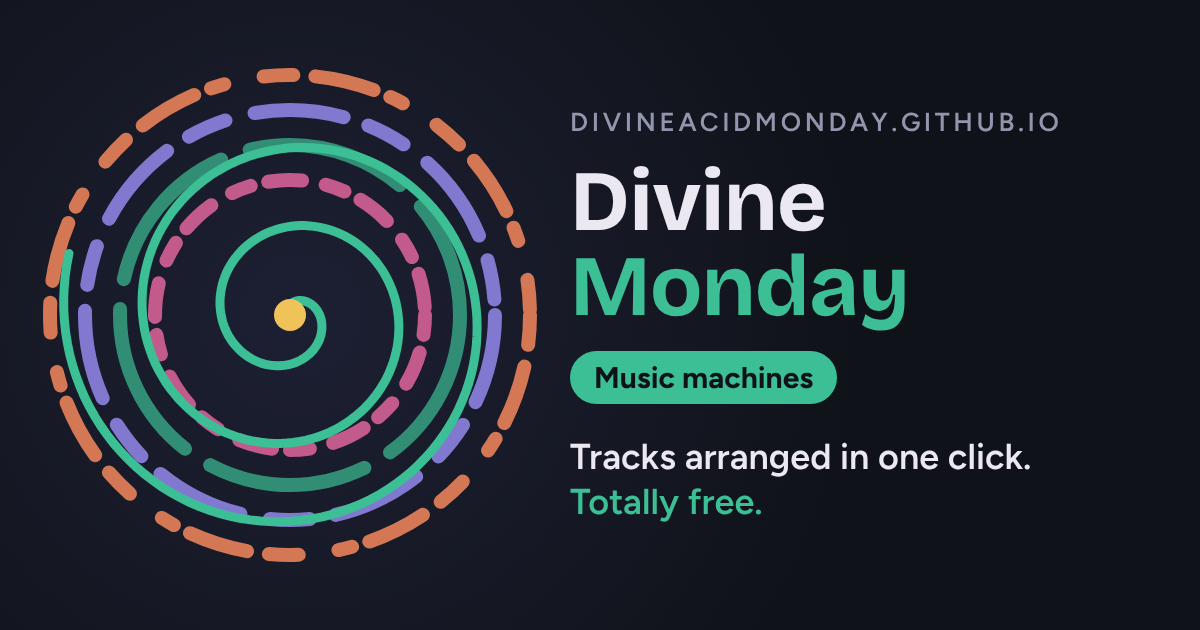
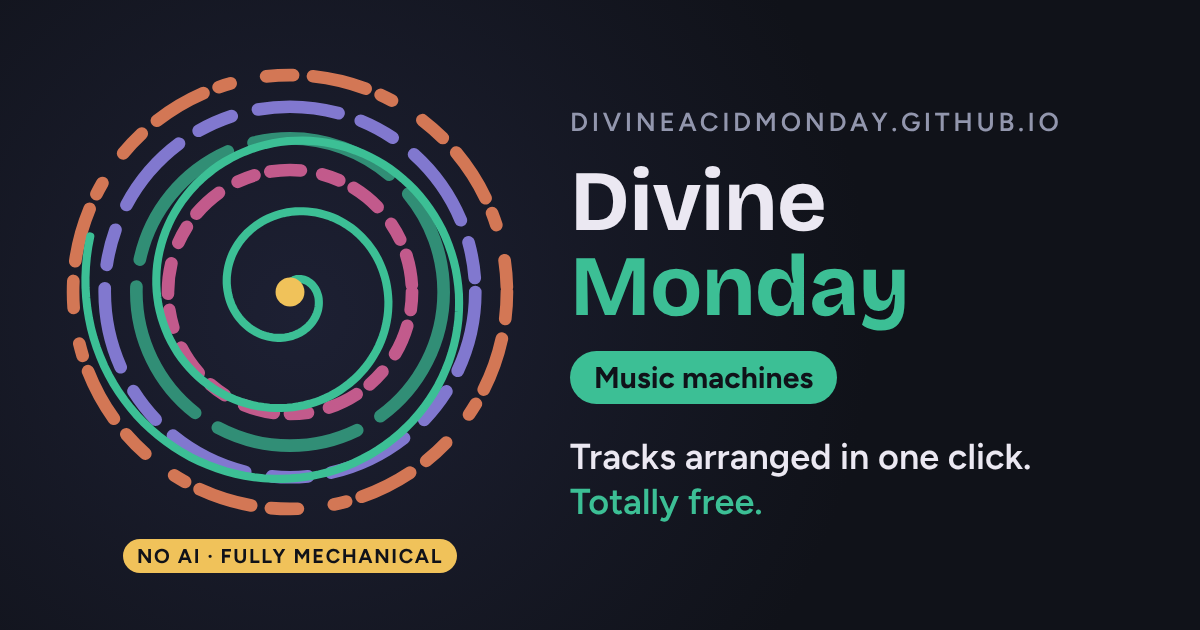
No AI inside, fully mechanical: said clearly in every app, on the front door and the share images. Feedback becomes Feedback / contact
Claude-Session: https://claude.ai/code/session_01AZoQ4ycVfCLhHSpjZYvUNb

Changed region(s): [[0.0308, 0.1206, 0.4625, 0.9349], [0.2775, 0.1206, 0.3392, 0.181], [0.2158, 0.573, 0.2467, 0.6032]]

diff --git a/lite/index.html b/lite/index.html
@@ -92,6 +92,8 @@ body.lite #app{display:none}
 #liteSheet .singrow{display:flex;flex-wrap:wrap;gap:6px}
 #liteSheet .singrow button{flex:0 0 auto;padding:6px 10px;font-size:13px}
 
+#lite .noai{margin:4px 0 14px;font-size:14px;color:var(--muted)}#lite .noai b{display:inline-block;color:#101219;background:#f0c25a;border-radius:999px;padding:2px 10px;margin-right:6px;font-size:13px}
+
 </style>
 <style>
 /* Layout: one instrument panel. Top bar = song settings, left = song spiral, centre = the editor, right = the part slots (one opens at a time), top bar also holds delivery. Dark first, like gear in a dim studio. */
@@ -251,6 +253,7 @@ input[type=number]{width:64px;font-variant-numeric:tabular-nums}
 .mlink:hover{border-color:var(--accent)}
 .manuals.small .mlink{padding:3px 8px}
 .copy{margin-top:8px;color:var(--faint);font-size:11px}
+.noai{margin:10px 0 6px;font-size:13px;color:var(--muted)}.noai b{display:inline-block;color:#101219;background:#f0c25a;border-radius:999px;padding:2px 10px;margin-right:6px;font-size:12px}
 a.legal{color:var(--muted);text-decoration:underline;white-space:nowrap}
 .small{font-size:12px;color:var(--muted)}
 
@@ -3058,7 +3061,7 @@ setTimeout(() => count(), 0);
 const FB_APP = APP_NAME;
 /* ---------- feedback: opens a mail to Divine Monday with the app and version filled in ---------- */
 function feedbackHref() {
-  const s = 'Feedback: ' + FB_APP + ' (version 2026-10-21 03:48)';
+  const s = 'Feedback / contact: ' + FB_APP + ' (version 2026-10-21 04:21)';
   const b = 'Hi Divine Monday,\n\nWhat I made:\n\nWhat I liked:\n\nWhat could be better:\n\nMy device and browser: ' + navigator.userAgent.replace(/\s+/g, ' ').slice(0, 160) + '\n';
   return 'mailto:divinemonday@gmail.com?subject=' + encodeURIComponent(s) + '&body=' + encodeURIComponent(b);
 }
@@ -3396,7 +3399,7 @@ function renderTop() {
         h('button', { class: st.polished ? 'on' : '', title: 'Theory checked and mix ready', onclick: () => { st.polished = true; renderTop(); } }, 'Polished')),
       h('button', { id: 'shareBtn', title: 'Send your song as a link: whoever opens it can listen and download the MP3 and MIDI', onclick: shareSong }, ico('share'), 'Share'),
       h('button', { class: 'primary', id: 'deliverBtn', onclick: openDeliver }, ico('download'), 'Deliver'),
-      h('div', { class: 'grp' }, h('button', { id: 'explainBtn', class: st.explain ? 'on' : '', 'aria-pressed': !!st.explain, title: 'Explain mode: tap any button to learn what it does, nothing changes', onclick: toggleExplain }, '💬 Explain'), h('button', { class: 'iconbtn', 'aria-label': 'Help', title: 'How it works', onclick: openHelp }, ico('help')), h('button', { class: 'iconbtn', id: 'feedbackBtn', 'aria-label': 'Send feedback', title: 'Send feedback: opens a mail to Divine Monday', onclick: sendFeedback }, '📮'), h('button', { class: 'ghost', title: 'Back to the start screen', onclick: openStart }, 'New')))
+      h('div', { class: 'grp' }, h('button', { id: 'explainBtn', class: st.explain ? 'on' : '', 'aria-pressed': !!st.explain, title: 'Explain mode: tap any button to learn what it does, nothing changes', onclick: toggleExplain }, '💬 Explain'), h('button', { class: 'iconbtn', 'aria-label': 'Help', title: 'How it works', onclick: openHelp }, ico('help')), h('button', { class: 'iconbtn', id: 'feedbackBtn', 'aria-label': 'Feedback or contact', title: 'Feedback or contact: opens a mail to Divine Monday', onclick: sendFeedback }, '📮'), h('button', { class: 'ghost', title: 'Back to the start screen', onclick: openStart }, 'New')))
   );
 }
 function setMeter(m) {
@@ -4935,6 +4938,7 @@ function openStart() {
     h('div', { class: 'stepnum' }, 'Step 1 of 2'), h('h3', null, st.boot ? 'Pick a genre' : 'Or a new song from scratch: pick a genre'),
     genres,
     h('div', { class: 'small' }, 'Not sure? Free flow follows wherever you go, and the machine tells you later what it sounds like.'),
+    h('div', { class: 'noai' }, h('b', null, '⚙ No AI inside'), ' Every note comes from music rules, patterns and dice. Fully mechanical.'),
     manualLinks(true),
     h('div', { class: 'small faint copy' }, D.COPYRIGHT + '. All rights reserved.'),
     last && last.parts && st.boot ? h('button', { id: 'continueBtn', onclick: () => { loadSong(last); closeOverlay(); } }, 'Continue where you left off: ' + (last.name || 'Untitled')) : null
@@ -5039,7 +5043,7 @@ function openHelp() {
       row('Space', 'Play or pause.'), row('← →', 'Previous or next section.'), row('Ctrl Z', 'Undo.')),
     h('div', { class: 'small' }, 'Your library and last song are kept in this browser. Save the library as a file now and then; browsers can wipe their storage.'),
     manualLinks(),
-    h('div', { class: 'small faint copy' }, APP_NAME + ', version 2026-10-21 03:48. ' + D.COPYRIGHT + '. All rights reserved.', ' ', h('a', { href: '#', class: 'legal', onclick: (e) => { e.preventDefault(); sendFeedback(); } }, '📮 Send feedback'), ' ', h('a', { href: 'https://divineacidmonday.github.io/divine-music-machine-v7/legal/', target: '_blank', rel: 'noopener', class: 'legal' }, 'Impressum · Privacy'))));
+    h('div', { class: 'small faint copy' }, APP_NAME + ', version 2026-10-21 04:21. ' + D.COPYRIGHT + '. All rights reserved.', ' ', h('a', { href: '#', class: 'legal', onclick: (e) => { e.preventDefault(); sendFeedback(); } }, '📮 Feedback / contact'), ' ', h('a', { href: 'https://divineacidmonday.github.io/divine-music-machine-v7/legal/', target: '_blank', rel: 'noopener', class: 'legal' }, 'Impressum · Privacy'))));
 }
 
 // save to library
@@ -5611,6 +5615,7 @@ function openStart() {
   const box = h('div', { id: 'liteStart' }, h('div', { class: 'col' },
     h('h1', null, 'Divine Music Machine ', h('b', null, 'Lite'), UJ ? h('span', { class: 'ujam' }, 'UJAM') : null),
     h('p', null, 'Pick a style. The machine makes a whole song right away. Then you steer.'),
+    h('div', { class: 'noai' }, h('b', null, '⚙ No AI inside'), ' Every note comes from music rules, patterns and dice. Fully mechanical.'),
     h('div', { class: 'gcards' }, D.GENRE_ALL.map((g) => h('button', { class: 'gc', id: 'lg_' + g, style: '--gc:var(' + GENRE_COLOR[g] + ')', onclick: () => makeSong(g) }, h('b', null, D.GENRES[g].name), h('span', null, GENRE_LINE[g] || '')))),
     last && last.parts && song() && st.liteReady ? h('button', { class: 'ghost', onclick: () => box.remove() }, 'Back to my song') : null,
     last && last.parts && !st.liteReady ? h('button', { class: 'ghost', id: 'liteContinue', onclick: () => { A.loadSong(last); st.liteReady = true; box.remove(); renderLite(); } }, 'Continue where you left off') : null,
@@ -5896,8 +5901,8 @@ function openHelp(lang) {
   document.body.append(h('div', { id: 'liteSheet', onclick: (e) => { if (e.target.id === 'liteSheet') closeSheet(); } }, h('div', { class: 'sh', role: 'dialog', 'aria-label': 'How it works' },
     h('div', { class: 'row', style: 'align-items:center' }, h('h2', { style: 'flex:2' }, '? How it works'), ['EN', 'NL', 'DE'].map((k) => h('button', { class: k === lang ? 'on' : 'ghost', id: 'liteLang' + k, style: 'flex:0 0 auto', onclick: () => openHelp(k) }, k))),
     h('ol', { class: 'helplist' }, HELP[lang].map((t) => h('li', null, t))),
-    h('div', { class: 'small' }, D.COPYRIGHT + '. Lite · version 2026-10-21 03:48 ', h('a', { href: 'https://divineacidmonday.github.io/divine-music-machine-v7/legal/', target: '_blank', rel: 'noopener', class: 'legal' }, 'Impressum · Privacy')),
-    h('button', { class: 'ghost', onclick: () => A.sendFeedback() }, '📮 Send feedback'),
+    h('div', { class: 'small' }, D.COPYRIGHT + '. Lite · version 2026-10-21 04:21 ', h('a', { href: 'https://divineacidmonday.github.io/divine-music-machine-v7/legal/', target: '_blank', rel: 'noopener', class: 'legal' }, 'Impressum · Privacy')),
+    h('button', { class: 'ghost', onclick: () => A.sendFeedback() }, '📮 Feedback / contact'),
     h('button', { class: 'ghost', onclick: closeSheet }, 'Close'))));
 }
 
@@ -5930,8 +5935,8 @@ function renderLite() {
       h('button', { id: 'litePro', title: 'Open this song in Divine Music Machine Pro, with every button', onclick: openPro }, '⚙ Pro'),
       h('button', { id: 'liteExplain', class: st.explain ? 'on' : '', onclick: toggleExplain }, '💬 Explain'),
       h('button', { id: 'liteHelp', title: 'The short manual, in English, Dutch and German', onclick: () => openHelp() }, '? Help'),
-      h('button', { id: 'liteFeedback', title: 'Send feedback: opens a mail to Divine Monday', onclick: () => A.sendFeedback() }, '📮 Feedback')),
-    h('div', { class: 'foot' }, h('span', null, D.COPYRIGHT), h('a', { href: 'https://divineacidmonday.github.io/divine-music-machine-v7/legal/', target: '_blank', rel: 'noopener', class: 'legal' }, 'Impressum · Privacy'), h('span', null, 'Lite · version 2026-10-21 03:48')));
+      h('button', { id: 'liteFeedback', title: 'Feedback or contact: opens a mail to Divine Monday', onclick: () => A.sendFeedback() }, '📮 Contact')),
+    h('div', { class: 'foot' }, h('span', null, D.COPYRIGHT), h('a', { href: 'https://divineacidmonday.github.io/divine-music-machine-v7/legal/', target: '_blank', rel: 'noopener', class: 'legal' }, 'Impressum · Privacy'), h('span', null, 'Lite · version 2026-10-21 04:21')));
   L.root.replaceChildren(col);
   L.cur = undefined; renderSpiral(); renderHead();
 }

diff --git a/lite/ujam/index.html b/lite/ujam/index.html
@@ -92,6 +92,8 @@ body.lite #app{display:none}
 #liteSheet .singrow{display:flex;flex-wrap:wrap;gap:6px}
 #liteSheet .singrow button{flex:0 0 auto;padding:6px 10px;font-size:13px}
 
+#lite .noai{margin:4px 0 14px;font-size:14px;color:var(--muted)}#lite .noai b{display:inline-block;color:#101219;background:#f0c25a;border-radius:999px;padding:2px 10px;margin-right:6px;font-size:13px}
+
 </style>
 <style>
 /* Layout: one instrument panel. Top bar = song settings, left = song spiral, centre = the editor, right = the part slots (one opens at a time), top bar also holds delivery. Dark first, like gear in a dim studio. */
@@ -251,6 +253,7 @@ input[type=number]{width:64px;font-variant-numeric:tabular-nums}
 .mlink:hover{border-color:var(--accent)}
 .manuals.small .mlink{padding:3px 8px}
 .copy{margin-top:8px;color:var(--faint);font-size:11px}
+.noai{margin:10px 0 6px;font-size:13px;color:var(--muted)}.noai b{display:inline-block;color:#101219;background:#f0c25a;border-radius:999px;padding:2px 10px;margin-right:6px;font-size:12px}
 a.legal{color:var(--muted);text-decoration:underline;white-space:nowrap}
 .small{font-size:12px;color:var(--muted)}
 
@@ -3058,7 +3061,7 @@ setTimeout(() => count(), 0);
 const FB_APP = APP_NAME;
 /* ---------- feedback: opens a mail to Divine Monday with the app and version filled in ---------- */
 function feedbackHref() {
-  const s = 'Feedback: ' + FB_APP + ' (version 2026-10-21 03:48)';
+  const s = 'Feedback / contact: ' + FB_APP + ' (version 2026-10-21 04:21)';
   const b = 'Hi Divine Monday,\n\nWhat I made:\n\nWhat I liked:\n\nWhat could be better:\n\nMy device and browser: ' + navigator.userAgent.replace(/\s+/g, ' ').slice(0, 160) + '\n';
   return 'mailto:divinemonday@gmail.com?subject=' + encodeURIComponent(s) + '&body=' + encodeURIComponent(b);
 }
@@ -3396,7 +3399,7 @@ function renderTop() {
         h('button', { class: st.polished ? 'on' : '', title: 'Theory checked and mix ready', onclick: () => { st.polished = true; renderTop(); } }, 'Polished')),
       h('button', { id: 'shareBtn', title: 'Send your song as a link: whoever opens it can listen and download the MP3 and MIDI', onclick: shareSong }, ico('share'), 'Share'),
       h('button', { class: 'primary', id: 'deliverBtn', onclick: openDeliver }, ico('download'), 'Deliver'),
-      h('div', { class: 'grp' }, h('button', { id: 'explainBtn', class: st.explain ? 'on' : '', 'aria-pressed': !!st.explain, title: 'Explain mode: tap any button to learn what it does, nothing changes', onclick: toggleExplain }, '💬 Explain'), h('button', { class: 'iconbtn', 'aria-label': 'Help', title: 'How it works', onclick: openHelp }, ico('help')), h('button', { class: 'iconbtn', id: 'feedbackBtn', 'aria-label': 'Send feedback', title: 'Send feedback: opens a mail to Divine Monday', onclick: sendFeedback }, '📮'), h('button', { class: 'ghost', title: 'Back to the start screen', onclick: openStart }, 'New')))
+      h('div', { class: 'grp' }, h('button', { id: 'explainBtn', class: st.explain ? 'on' : '', 'aria-pressed': !!st.explain, title: 'Explain mode: tap any button to learn what it does, nothing changes', onclick: toggleExplain }, '💬 Explain'), h('button', { class: 'iconbtn', 'aria-label': 'Help', title: 'How it works', onclick: openHelp }, ico('help')), h('button', { class: 'iconbtn', id: 'feedbackBtn', 'aria-label': 'Feedback or contact', title: 'Feedback or contact: opens a mail to Divine Monday', onclick: sendFeedback }, '📮'), h('button', { class: 'ghost', title: 'Back to the start screen', onclick: openStart }, 'New')))
   );
 }
 function setMeter(m) {
@@ -4935,6 +4938,7 @@ function openStart() {
     h('div', { class: 'stepnum' }, 'Step 1 of 2'), h('h3', null, st.boot ? 'Pick a genre' : 'Or a new song from scratch: pick a genre'),
     genres,
     h('div', { class: 'small' }, 'Not sure? Free flow follows wherever you go, and the machine tells you later what it sounds like.'),
+    h('div', { class: 'noai' }, h('b', null, '⚙ No AI inside'), ' Every note comes from music rules, patterns and dice. Fully mechanical.'),
     manualLinks(true),
     h('div', { class: 'small faint copy' }, D.COPYRIGHT + '. All rights reserved.'),
     last && last.parts && st.boot ? h('button', { id: 'continueBtn', onclick: () => { loadSong(last); closeOverlay(); } }, 'Continue where you left off: ' + (last.name || 'Untitled')) : null
@@ -5039,7 +5043,7 @@ function openHelp() {
       row('Space', 'Play or pause.'), row('← →', 'Previous or next section.'), row('Ctrl Z', 'Undo.')),
     h('div', { class: 'small' }, 'Your library and last song are kept in this browser. Save the library as a file now and then; browsers can wipe their storage.'),
     manualLinks(),
-    h('div', { class: 'small faint copy' }, APP_NAME + ', version 2026-10-21 03:48. ' + D.COPYRIGHT + '. All rights reserved.', ' ', h('a', { href: '#', class: 'legal', onclick: (e) => { e.preventDefault(); sendFeedback(); } }, '📮 Send feedback'), ' ', h('a', { href: 'https://divineacidmonday.github.io/divine-music-machine-v7/legal/', target: '_blank', rel: 'noopener', class: 'legal' }, 'Impressum · Privacy'))));
+    h('div', { class: 'small faint copy' }, APP_NAME + ', version 2026-10-21 04:21. ' + D.COPYRIGHT + '. All rights reserved.', ' ', h('a', { href: '#', class: 'legal', onclick: (e) => { e.preventDefault(); sendFeedback(); } }, '📮 Feedback / contact'), ' ', h('a', { href: 'https://divineacidmonday.github.io/divine-music-machine-v7/legal/', target: '_blank', rel: 'noopener', class: 'legal' }, 'Impressum · Privacy'))));
 }
 
 // save to library
@@ -5611,6 +5615,7 @@ function openStart() {
   const box = h('div', { id: 'liteStart' }, h('div', { class: 'col' },
     h('h1', null, 'Divine Music Machine ', h('b', null, 'Lite'), UJ ? h('span', { class: 'ujam' }, 'UJAM') : null),
     h('p', null, 'Pick a style. The machine makes a whole song right away. Then you steer.'),
+    h('div', { class: 'noai' }, h('b', null, '⚙ No AI inside'), ' Every note comes from music rules, patterns and dice. Fully mechanical.'),
     h('div', { class: 'gcards' }, D.GENRE_ALL.map((g) => h('button', { class: 'gc', id: 'lg_' + g, style: '--gc:var(' + GENRE_COLOR[g] + ')', onclick: () => makeSong(g) }, h('b', null, D.GENRES[g].name), h('span', null, GENRE_LINE[g] || '')))),
     last && last.parts && song() && st.liteReady ? h('button', { class: 'ghost', onclick: () => box.remove() }, 'Back to my song') : null,
     last && last.parts && !st.liteReady ? h('button', { class: 'ghost', id: 'liteContinue', onclick: () => { A.loadSong(last); st.liteReady = true; box.remove(); renderLite(); } }, 'Continue where you left off') : null,
@@ -5896,8 +5901,8 @@ function openHelp(lang) {
   document.body.append(h('div', { id: 'liteSheet', onclick: (e) => { if (e.target.id === 'liteSheet') closeSheet(); } }, h('div', { class: 'sh', role: 'dialog', 'aria-label': 'How it works' },
     h('div', { class: 'row', style: 'align-items:center' }, h('h2', { style: 'flex:2' }, '? How it works'), ['EN', 'NL', 'DE'].map((k) => h('button', { class: k === lang ? 'on' : 'ghost', id: 'liteLang' + k, style: 'flex:0 0 auto', onclick: () => openHelp(k) }, k))),
     h('ol', { class: 'helplist' }, HELP[lang].map((t) => h('li', null, t))),
-    h('div', { class: 'small' }, D.COPYRIGHT + '. Lite · version 2026-10-21 03:48 ', h('a', { href: 'https://divineacidmonday.github.io/divine-music-machine-v7/legal/', target: '_blank', rel: 'noopener', class: 'legal' }, 'Impressum · Privacy')),
-    h('button', { class: 'ghost', onclick: () => A.sendFeedback() }, '📮 Send feedback'),
+    h('div', { class: 'small' }, D.COPYRIGHT + '. Lite · version 2026-10-21 04:21 ', h('a', { href: 'https://divineacidmonday.github.io/divine-music-machine-v7/legal/', target: '_blank', rel: 'noopener', class: 'legal' }, 'Impressum · Privacy')),
+    h('button', { class: 'ghost', onclick: () => A.sendFeedback() }, '📮 Feedback / contact'),
     h('button', { class: 'ghost', onclick: closeSheet }, 'Close'))));
 }
 
@@ -5930,8 +5935,8 @@ function renderLite() {
       h('button', { id: 'litePro', title: 'Open this song in Divine Music Machine Pro, with every button', onclick: openPro }, '⚙ Pro'),
       h('button', { id: 'liteExplain', class: st.explain ? 'on' : '', onclick: toggleExplain }, '💬 Explain'),
       h('button', { id: 'liteHelp', title: 'The short manual, in English, Dutch and German', onclick: () => openHelp() }, '? Help'),
-      h('button', { id: 'liteFeedback', title: 'Send feedback: opens a mail to Divine Monday', onclick: () => A.sendFeedback() }, '📮 Feedback')),
-    h('div', { class: 'foot' }, h('span', null, D.COPYRIGHT), h('a', { href: 'https://divineacidmonday.github.io/divine-music-machine-v7/legal/', target: '_blank', rel: 'noopener', class: 'legal' }, 'Impressum · Privacy'), h('span', null, 'Lite · version 2026-10-21 03:48')));
+      h('button', { id: 'liteFeedback', title: 'Feedback or contact: opens a mail to Divine Monday', onclick: () => A.sendFeedback() }, '📮 Contact')),
+    h('div', { class: 'foot' }, h('span', null, D.COPYRIGHT), h('a', { href: 'https://divineacidmonday.github.io/divine-music-machine-v7/legal/', target: '_blank', rel: 'noopener', class: 'legal' }, 'Impressum · Privacy'), h('span', null, 'Lite · version 2026-10-21 04:21')));
   L.root.replaceChildren(col);
   L.cur = undefined; renderSpiral(); renderHead();
 }

diff --git a/groove/index.html b/groove/index.html
@@ -179,6 +179,7 @@ input[type=number]{width:64px;font-variant-numeric:tabular-nums}
 .mlink:hover{border-color:var(--accent)}
 .manuals.small .mlink{padding:3px 8px}
 .copy{margin-top:8px;color:var(--faint);font-size:11px}
+.noai{margin:10px 0 6px;font-size:13px;color:var(--muted)}.noai b{display:inline-block;color:#101219;background:#f0c25a;border-radius:999px;padding:2px 10px;margin-right:6px;font-size:12px}
 a.legal{color:var(--muted);text-decoration:underline;white-space:nowrap}
 .small{font-size:12px;color:var(--muted)}
 
@@ -2879,7 +2880,7 @@ function renderTop() {
       h('div', { class: 'grp' }, h('button', { class: 'iconbtn', 'aria-label': 'Undo', title: 'Undo (Ctrl Z)', disabled: !st.hist.length, onclick: undo }, ico('undo')), h('button', { class: 'iconbtn', 'aria-label': 'Redo', title: 'Redo', disabled: !st.fut.length, onclick: redo }, ico('redo'))),
       h('button', { id: 'shareBtn', title: 'Send your groove as a link: whoever opens it can listen and download the MIDI', onclick: shareSong }, ico('share'), 'Share'),
       h('button', { class: 'primary', id: 'deliverBtn', onclick: openDeliver }, ico('download'), 'Deliver'),
-      h('div', { class: 'grp' }, h('button', { id: 'explainBtn', class: st.explain ? 'on' : '', 'aria-pressed': !!st.explain, title: 'Explain mode: tap any button to learn what it does, nothing changes', onclick: toggleExplain }, '💬 Explain'), h('button', { class: 'iconbtn', 'aria-label': 'Help', title: 'How it works', onclick: openHelp }, ico('help')), h('button', { class: 'iconbtn', id: 'feedbackBtn', 'aria-label': 'Send feedback', title: 'Send feedback: opens a mail to Divine Monday', onclick: sendFeedback }, '📮'), h('button', { class: 'ghost', title: 'Back to the start screen', onclick: openStart }, 'New')))
+      h('div', { class: 'grp' }, h('button', { id: 'explainBtn', class: st.explain ? 'on' : '', 'aria-pressed': !!st.explain, title: 'Explain mode: tap any button to learn what it does, nothing changes', onclick: toggleExplain }, '💬 Explain'), h('button', { class: 'iconbtn', 'aria-label': 'Help', title: 'How it works', onclick: openHelp }, ico('help')), h('button', { class: 'iconbtn', id: 'feedbackBtn', 'aria-label': 'Feedback or contact', title: 'Feedback or contact: opens a mail to Divine Monday', onclick: sendFeedback }, '📮'), h('button', { class: 'ghost', title: 'Back to the start screen', onclick: openStart }, 'New')))
   );
 }
 function setMeter(m) {
@@ -2908,7 +2909,7 @@ setTimeout(() => count(), 0);
 const FB_APP = 'Divine Groove Machine';
 /* ---------- feedback: opens a mail to Divine Monday with the app and version filled in ---------- */
 function feedbackHref() {
-  const s = 'Feedback: ' + FB_APP + ' (version 2026-10-21 04:01)';
+  const s = 'Feedback / contact: ' + FB_APP + ' (version 2026-10-21 04:21)';
   const b = 'Hi Divine Monday,\n\nWhat I made:\n\nWhat I liked:\n\nWhat could be better:\n\nMy device and browser: ' + navigator.userAgent.replace(/\s+/g, ' ').slice(0, 160) + '\n';
   return 'mailto:divinemonday@gmail.com?subject=' + encodeURIComponent(s) + '&body=' + encodeURIComponent(b);
 }
@@ -4400,6 +4401,7 @@ function openStart() {
     !st.boot ? keepStructureBox() : null,
     h('h3', null, st.boot ? 'Pick a groove' : 'Or a new groove from scratch'), genres,
     h('div', { class: 'small' }, 'The genre sets the swing and what the shadows suggest. Change it any time.'),
+    h('div', { class: 'noai' }, h('b', null, '⚙ No AI inside'), ' Every note comes from music rules, patterns and dice. Fully mechanical.'),
     h('div', { class: 'small faint copy' }, D.COPYRIGHT + '. All rights reserved.'),
     last && last.parts && st.boot ? h('button', { id: 'continueBtn', onclick: () => { loadSong(last); closeOverlay(); } }, 'Continue where you left off: ' + (last.name || 'Untitled')) : null
   );
@@ -4473,7 +4475,7 @@ function openHelp() {
       row('Space', 'Play or pause.'), row('← →', 'Previous or next section.'), row('Ctrl Z', 'Undo.')),
     h('div', { class: 'small' }, 'Your last groove is kept in this browser. Share or Deliver it now and then; browsers can wipe their storage.'),
     manualLinks(),
-    h('div', { class: 'small faint copy' }, 'Divine Groove Machine, version 2026-10-21 04:01. ' + D.COPYRIGHT + '. All rights reserved.', ' ', h('a', { href: '#', class: 'legal', onclick: (e) => { e.preventDefault(); sendFeedback(); } }, '📮 Send feedback'), ' ', h('a', { href: 'https://divineacidmonday.github.io/divine-music-machine-v7/legal/', target: '_blank', rel: 'noopener', class: 'legal' }, 'Impressum · Privacy'))));
+    h('div', { class: 'small faint copy' }, 'Divine Groove Machine, version 2026-10-21 04:21. ' + D.COPYRIGHT + '. All rights reserved.', ' ', h('a', { href: '#', class: 'legal', onclick: (e) => { e.preventDefault(); sendFeedback(); } }, '📮 Feedback / contact'), ' ', h('a', { href: 'https://divineacidmonday.github.io/divine-music-machine-v7/legal/', target: '_blank', rel: 'noopener', class: 'legal' }, 'Impressum · Privacy'))));
 }
 
 // save to library

diff --git a/index.html b/index.html
@@ -170,6 +170,7 @@ input[type=number]{width:64px;font-variant-numeric:tabular-nums}
 .mlink:hover{border-color:var(--accent)}
 .manuals.small .mlink{padding:3px 8px}
 .copy{margin-top:8px;color:var(--faint);font-size:11px}
+.noai{margin:10px 0 6px;font-size:13px;color:var(--muted)}.noai b{display:inline-block;color:#101219;background:#f0c25a;border-radius:999px;padding:2px 10px;margin-right:6px;font-size:12px}
 a.legal{color:var(--muted);text-decoration:underline;white-space:nowrap}
 .small{font-size:12px;color:var(--muted)}
 
@@ -2976,7 +2977,7 @@ setTimeout(() => count(), 0);
 const FB_APP = APP_NAME;
 /* ---------- feedback: opens a mail to Divine Monday with the app and version filled in ---------- */
 function feedbackHref() {
-  const s = 'Feedback: ' + FB_APP + ' (version 2026-10-21 03:48)';
+  const s = 'Feedback / contact: ' + FB_APP + ' (version 2026-10-21 04:21)';
   const b = 'Hi Divine Monday,\n\nWhat I made:\n\nWhat I liked:\n\nWhat could be better:\n\nMy device and browser: ' + navigator.userAgent.replace(/\s+/g, ' ').slice(0, 160) + '\n';
   return 'mailto:divinemonday@gmail.com?subject=' + encodeURIComponent(s) + '&body=' + encodeURIComponent(b);
 }
@@ -3314,7 +3315,7 @@ function renderTop() {
         h('button', { class: st.polished ? 'on' : '', title: 'Theory checked and mix ready', onclick: () => { st.polished = true; renderTop(); } }, 'Polished')),
       h('button', { id: 'shareBtn', title: 'Send your song as a link: whoever opens it can listen and download the MP3 and MIDI', onclick: shareSong }, ico('share'), 'Share'),
       h('button', { class: 'primary', id: 'deliverBtn', onclick: openDeliver }, ico('download'), 'Deliver'),
-      h('div', { class: 'grp' }, h('button', { id: 'explainBtn', class: st.explain ? 'on' : '', 'aria-pressed': !!st.explain, title: 'Explain mode: tap any button to learn what it does, nothing changes', onclick: toggleExplain }, '💬 Explain'), h('button', { class: 'iconbtn', 'aria-label': 'Help', title: 'How it works', onclick: openHelp }, ico('help')), h('button', { class: 'iconbtn', id: 'feedbackBtn', 'aria-label': 'Send feedback', title: 'Send feedback: opens a mail to Divine Monday', onclick: sendFeedback }, '📮'), h('button', { class: 'ghost', title: 'Back to the start screen', onclick: openStart }, 'New')))
+      h('div', { class: 'grp' }, h('button', { id: 'explainBtn', class: st.explain ? 'on' : '', 'aria-pressed': !!st.explain, title: 'Explain mode: tap any button to learn what it does, nothing changes', onclick: toggleExplain }, '💬 Explain'), h('button', { class: 'iconbtn', 'aria-label': 'Help', title: 'How it works', onclick: openHelp }, ico('help')), h('button', { class: 'iconbtn', id: 'feedbackBtn', 'aria-label': 'Feedback or contact', title: 'Feedback or contact: opens a mail to Divine Monday', onclick: sendFeedback }, '📮'), h('button', { class: 'ghost', title: 'Back to the start screen', onclick: openStart }, 'New')))
   );
 }
 function setMeter(m) {
@@ -4853,6 +4854,7 @@ function openStart() {
     h('div', { class: 'stepnum' }, 'Step 1 of 2'), h('h3', null, st.boot ? 'Pick a genre' : 'Or a new song from scratch: pick a genre'),
     genres,
     h('div', { class: 'small' }, 'Not sure? Free flow follows wherever you go, and the machine tells you later what it sounds like.'),
+    h('div', { class: 'noai' }, h('b', null, '⚙ No AI inside'), ' Every note comes from music rules, patterns and dice. Fully mechanical.'),
     manualLinks(true),
     h('div', { class: 'small faint copy' }, D.COPYRIGHT + '. All rights reserved.'),
     last && last.parts && st.boot ? h('button', { id: 'continueBtn', onclick: () => { loadSong(last); closeOverlay(); } }, 'Continue where you left off: ' + (last.name || 'Untitled')) : null
@@ -4957,7 +4959,7 @@ function openHelp() {
       row('Space', 'Play or pause.'), row('← →', 'Previous or next section.'), row('Ctrl Z', 'Undo.')),
     h('div', { class: 'small' }, 'Your library and last song are kept in this browser. Save the library as a file now and then; browsers can wipe their storage.'),
     manualLinks(),
-    h('div', { class: 'small faint copy' }, APP_NAME + ', version 2026-10-21 03:48. ' + D.COPYRIGHT + '. All rights reserved.', ' ', h('a', { href: '#', class: 'legal', onclick: (e) => { e.preventDefault(); sendFeedback(); } }, '📮 Send feedback'), ' ', h('a', { href: 'https://divineacidmonday.github.io/divine-music-machine-v7/legal/', target: '_blank', rel: 'noopener', class: 'legal' }, 'Impressum · Privacy'))));
+    h('div', { class: 'small faint copy' }, APP_NAME + ', version 2026-10-21 04:21. ' + D.COPYRIGHT + '. All rights reserved.', ' ', h('a', { href: '#', class: 'legal', onclick: (e) => { e.preventDefault(); sendFeedback(); } }, '📮 Feedback / contact'), ' ', h('a', { href: 'https://divineacidmonday.github.io/divine-music-machine-v7/legal/', target: '_blank', rel: 'noopener', class: 'legal' }, 'Impressum · Privacy'))));
 }
 
 // save to library

diff --git a/legal/index.html b/legal/index.html
@@ -42,7 +42,7 @@ address{font-style:normal}
 <h3>Besucherzählung mit GoatCounter</h3>
 <p>Um zu sehen, welche Apps und Funktionen genutzt werden, zählen wir Aufrufe mit GoatCounter (Martin Tournoij, Niederlande, <a href="https://www.goatcounter.com/help/privacy" rel="noopener">Datenschutz bei GoatCounter</a>). Gezählt werden: die aufgerufene App, das gewählte Genre, Downloads (MIDI oder MP3), Bildschirmgröße, Browsertyp, die verweisende Seite und das Land. Es werden keine Cookies gesetzt und nichts auf deinem Gerät gespeichert. Deine IP-Adresse wird nicht gespeichert; aus ihr wird nur das Land abgeleitet. Ein Rückschluss auf dich als Person ist nicht möglich. Rechtsgrundlage ist Art. 6 Abs. 1 lit. f DSGVO; unser berechtigtes Interesse ist, die Apps zu verbessern.</p>
 <h3>Feedback per E-Mail</h3>
-<p>Der Knopf „Feedback“ öffnet dein eigenes E-Mail-Programm mit einer vorbereiteten Nachricht an uns, inklusive App, Version und Browsertyp. Du siehst alles, bevor du es sendest, und entscheidest selbst. Wir nutzen deine E-Mail nur, um auf dein Feedback zu antworten und die Apps zu verbessern (Art. 6 Abs. 1 lit. f DSGVO).</p>
+<p>Der Knopf „Feedback / contact“ (in Lite „Contact“) öffnet dein eigenes E-Mail-Programm mit einer vorbereiteten Nachricht an uns, inklusive App, Version und Browsertyp. Du siehst alles, bevor du es sendest, und entscheidest selbst. Wir nutzen deine E-Mail nur, um auf dein Feedback zu antworten und die Apps zu verbessern (Art. 6 Abs. 1 lit. f DSGVO).</p>
 <h3>Speicher in deinem Browser</h3>
 <p>Deine Bibliothek, dein letzter Song und deine Einstellungen werden im lokalen Speicher (localStorage) deines Browsers abgelegt, damit deine Arbeit beim nächsten Besuch noch da ist. Diese Daten verlassen dein Gerät nicht. Das ist für die von dir gewünschte Funktion unbedingt erforderlich (§ 25 Abs. 2 Nr. 2 TDDDG). Du kannst sie jederzeit über die Einstellungen deines Browsers löschen.</p>
 <h3>Teilen-Links</h3>
@@ -62,6 +62,6 @@ address{font-style:normal}
 <section id="en" lang="en">
 <h2>English summary</h2>
 <p>Site owner: JJ Cornelissen (Divine Monday), Mindenerstr. 9, 10589 Berlin, Germany. Email: <a href="mailto:divinemonday@gmail.com">divinemonday@gmail.com</a>.</p>
-<p>The apps run entirely in your browser. No sign-up, no cookies, no ads. We count visits anonymously with GoatCounter (which app, genre, downloads, screen size, browser, country); no cookies, no IP addresses stored, nothing that identifies you. Your songs and settings stay in your browser's local storage and are never sent to us. Share links carry the song after the # sign, which browsers do not send to the server. Fonts are built into the pages; nothing is loaded from Google or other third parties. The pages are hosted by GitHub Pages, which processes technical data such as your IP address to deliver them (see GitHub's privacy statement). The Feedback button opens your own mail app with a prepared message; you see everything before you send it. Brand names such as UJAM, XLN Audio, BABY Audio and Audiomodern belong to their owners; Divine Monday is not affiliated with them. What you make with the apps is yours.</p>
+<p>The apps run entirely in your browser. No sign-up, no cookies, no ads. We count visits anonymously with GoatCounter (which app, genre, downloads, screen size, browser, country); no cookies, no IP addresses stored, nothing that identifies you. Your songs and settings stay in your browser's local storage and are never sent to us. Share links carry the song after the # sign, which browsers do not send to the server. Fonts are built into the pages; nothing is loaded from Google or other third parties. The pages are hosted by GitHub Pages, which processes technical data such as your IP address to deliver them (see GitHub's privacy statement). The Feedback / contact button opens your own mail app with a prepared message; you see everything before you send it. Brand names such as UJAM, XLN Audio, BABY Audio and Audiomodern belong to their owners; Divine Monday is not affiliated with them. What you make with the apps is yours.</p>
 </section>
 </main></body></html>
